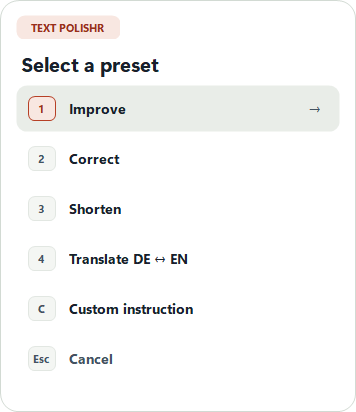
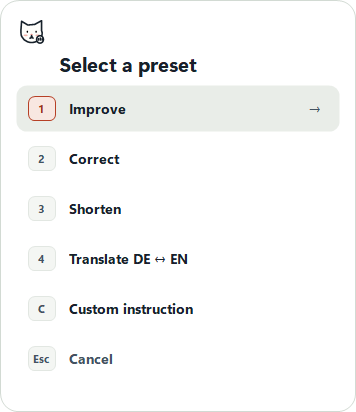
Add shortcut capture and cat branding

Changed region(s): [[0.0309, 0.0291, 0.5562, 0.2039]]

diff --git a/src/TextPolishr/UI/SettingsWindow.xaml b/src/TextPolishr/UI/SettingsWindow.xaml
@@ -22,6 +22,18 @@
         <SolidColorBrush x:Key="Quiet" Color="#647482" />
         <SolidColorBrush x:Key="Signal" Color="#B64026" />
         <SolidColorBrush x:Key="SignalSoft" Color="#F8E7E1" />
+        <DataTemplate x:Key="CatMark">
+            <Viewbox Stretch="Uniform">
+                <Canvas Width="48" Height="48">
+                    <Path Data="M7,23 L8,9 L18,15 L29,14 L40,8 L40,24 C40,35 33,42 24,42 C14,42 7,35 7,23 Z" Fill="#FEFEFB" Stroke="#17212B" StrokeThickness="2.6" StrokeLineJoin="Round" />
+                    <Ellipse Canvas.Left="16" Canvas.Top="24" Width="3" Height="4" Fill="#17212B" /><Ellipse Canvas.Left="30" Canvas.Top="24" Width="3" Height="4" Fill="#17212B" />
+                    <Ellipse Canvas.Left="22" Canvas.Top="29" Width="4" Height="2.5" Fill="#EF9B93" />
+                    <Ellipse Canvas.Left="11" Canvas.Top="30" Width="7" Height="3" Fill="#F2B5AD" Opacity=".7" /><Ellipse Canvas.Left="30" Canvas.Top="30" Width="7" Height="3" Fill="#F2B5AD" Opacity=".7" />
+                    <Ellipse Canvas.Left="32" Canvas.Top="32" Width="11" Height="12" Fill="#FEFEFB" Stroke="#17212B" StrokeThickness="2.6" />
+                    <Line X1="35" Y1="37" X2="35" Y2="39" Stroke="#17212B" StrokeThickness="2" StrokeStartLineCap="Round" /><Line X1="38" Y1="36" X2="38" Y2="39" Stroke="#17212B" StrokeThickness="2" StrokeStartLineCap="Round" /><Line X1="41" Y1="37" X2="41" Y2="39" Stroke="#17212B" StrokeThickness="2" StrokeStartLineCap="Round" />
+                </Canvas>
+            </Viewbox>
+        </DataTemplate>
 
         <Style TargetType="TextBlock">
             <Setter Property="Foreground" Value="{StaticResource Ink}" />
@@ -339,9 +351,7 @@
                     <ColumnDefinition Width="Auto" />
                 </Grid.ColumnDefinitions>
                 <StackPanel Orientation="Horizontal" VerticalAlignment="Center" Margin="25,0,0,0">
-                    <Border Width="38" Height="38" CornerRadius="9" Background="{StaticResource Signal}">
-                        <TextBlock Text="TP" FontWeight="Bold" FontSize="13" HorizontalAlignment="Center" VerticalAlignment="Center" />
-                    </Border>
+                    <ContentControl Width="38" Height="38" ContentTemplate="{StaticResource CatMark}" />
                     <StackPanel Margin="12,0,0,0" VerticalAlignment="Center">
                         <TextBlock Text="Text Polishr" FontFamily="Segoe UI Variable Display" FontWeight="SemiBold" FontSize="17" />
                         <TextBlock Text="TEXT TRANSFORMATION" Style="{StaticResource Eyebrow}" FontSize="10" Foreground="{StaticResource Quiet}" />
@@ -387,7 +397,11 @@
                                 <Grid.ColumnDefinitions><ColumnDefinition Width="200"/><ColumnDefinition Width="*"/></Grid.ColumnDefinitions>
                                 <Grid.RowDefinitions><RowDefinition Height="Auto"/><RowDefinition Height="20"/><RowDefinition Height="Auto"/><RowDefinition Height="20"/><RowDefinition Height="Auto"/></Grid.RowDefinitions>
                                 <TextBlock Text="Preset menu shortcut" Style="{StaticResource FieldLabel}" VerticalAlignment="Center" />
-                                <TextBox x:Name="MenuShortcutBox" Grid.Column="1" />
+                                <StackPanel Grid.Column="1">
+                                    <TextBox x:Name="MenuShortcutBox" Style="{StaticResource PresetInput}" PreviewKeyDown="ShortcutBox_PreviewKeyDown" GotKeyboardFocus="ShortcutBox_GotKeyboardFocus"
+                                             ToolTip="Click, then press the complete key combination. Backspace clears it." />
+                                    <TextBlock Text="Click the field, then press the complete key combination. Backspace clears it." Foreground="{StaticResource Quiet}" FontSize="11" Margin="2,6,0,0" />
+                                </StackPanel>
                                 <StackPanel Grid.Row="2" VerticalAlignment="Center"><TextBlock Text="Maximum characters" Style="{StaticResource FieldLabel}"/><TextBlock Text="Default: 10,000" Foreground="{StaticResource Quiet}" FontSize="11"/></StackPanel>
                                 <TextBox x:Name="CharacterLimitBox" Grid.Row="2" Grid.Column="1" />
                                 <StackPanel Grid.Row="4" VerticalAlignment="Center"><TextBlock Text="Request timeout" Style="{StaticResource FieldLabel}"/><TextBlock Text="Seconds before aborting" Foreground="{StaticResource Quiet}" FontSize="11"/></StackPanel>
@@ -426,7 +440,7 @@
                         <StackPanel>
                             <TextBlock Text="PRESETS" Style="{StaticResource Eyebrow}" />
                             <TextBlock Text="Preset configuration" Style="{StaticResource PageTitle}" Margin="0,7,0,4" />
-                            <TextBlock Text="Each preset has a prompt, shortcut, provider, and optional model override." Foreground="{StaticResource Muted}" />
+                            <TextBlock Text="The prompt controls the result. Shortcut and model options are optional." Foreground="{StaticResource Muted}" />
                         </StackPanel>
                         <Grid Grid.Row="2">
                             <Grid.ColumnDefinitions><ColumnDefinition Width="240"/><ColumnDefinition Width="18"/><ColumnDefinition Width="*"/></Grid.ColumnDefinitions>
@@ -455,11 +469,17 @@
                                         <Expander x:Name="PresetAdvancedOptions" Header="Advanced options" Margin="0,18,0,0">
                                             <StackPanel Margin="0,14,0,0">
                                                 <Grid><Grid.ColumnDefinitions><ColumnDefinition/><ColumnDefinition Width="16"/><ColumnDefinition/></Grid.ColumnDefinitions>
-                                                    <StackPanel><TextBlock Text="Provider override" Style="{StaticResource FieldLabel}"/><ComboBox x:Name="PresetProviderCombo" Style="{StaticResource PresetCombo}" /></StackPanel>
-                                                    <StackPanel Grid.Column="2"><TextBlock Text="Model override" Style="{StaticResource FieldLabel}"/><TextBox x:Name="PresetModelBox" Style="{StaticResource PresetInput}" /></StackPanel>
+                                                    <StackPanel><TextBlock Text="Provider override (optional)" Style="{StaticResource FieldLabel}"/><ComboBox x:Name="PresetProviderCombo" Style="{StaticResource PresetCombo}" /></StackPanel>
+                                                    <StackPanel Grid.Column="2">
+                                                        <TextBlock Text="Model override (optional)" Style="{StaticResource FieldLabel}"/>
+                                                        <TextBox x:Name="PresetModelBox" Style="{StaticResource PresetInput}" />
+                                                        <TextBlock Text="Leave blank to use the global model. Enter an exact model ID only for a different model." Foreground="{StaticResource Quiet}" FontSize="11" TextWrapping="Wrap" Margin="2,6,0,0" />
+                                                    </StackPanel>
                                                 </Grid>
                                                 <TextBlock Text="Direct shortcut" Style="{StaticResource FieldLabel}" Margin="0,17,0,7" />
-                                                <TextBox x:Name="PresetShortcutBox" Style="{StaticResource PresetInput}" />
+                                                <TextBox x:Name="PresetShortcutBox" Style="{StaticResource PresetInput}" PreviewKeyDown="ShortcutBox_PreviewKeyDown" GotKeyboardFocus="ShortcutBox_GotKeyboardFocus"
+                                                         ToolTip="Click, then press the complete key combination. Backspace clears it." />
+                                                <TextBlock Text="Click the field, then press the complete key combination. Backspace clears it." Foreground="{StaticResource Quiet}" FontSize="11" Margin="2,6,0,0" />
                                                 <CheckBox x:Name="PresetShowInMenuCheck" Content="Show in selection menu" Margin="0,18,0,0" />
                                             </StackPanel>
                                         </Expander>

diff --git a/src/TextPolishr/UI/HistoryWindow.xaml b/src/TextPolishr/UI/HistoryWindow.xaml
@@ -14,6 +14,7 @@
         <SolidColorBrush x:Key="Line" Color="#D2DAD3"/><SolidColorBrush x:Key="Ink" Color="#17212B"/>
         <SolidColorBrush x:Key="Muted" Color="#435260"/><SolidColorBrush x:Key="Quiet" Color="#647482"/>
         <SolidColorBrush x:Key="Signal" Color="#B64026"/><SolidColorBrush x:Key="SignalSoft" Color="#F8E7E1"/>
+        <DataTemplate x:Key="CatMark"><Viewbox Stretch="Uniform"><Canvas Width="48" Height="48"><Path Data="M7,23 L8,9 L18,15 L29,14 L40,8 L40,24 C40,35 33,42 24,42 C14,42 7,35 7,23 Z" Fill="#FEFEFB" Stroke="#17212B" StrokeThickness="2.6" StrokeLineJoin="Round"/><Ellipse Canvas.Left="16" Canvas.Top="24" Width="3" Height="4" Fill="#17212B"/><Ellipse Canvas.Left="30" Canvas.Top="24" Width="3" Height="4" Fill="#17212B"/><Ellipse Canvas.Left="22" Canvas.Top="29" Width="4" Height="2.5" Fill="#EF9B93"/><Ellipse Canvas.Left="11" Canvas.Top="30" Width="7" Height="3" Fill="#F2B5AD" Opacity=".7"/><Ellipse Canvas.Left="30" Canvas.Top="30" Width="7" Height="3" Fill="#F2B5AD" Opacity=".7"/><Ellipse Canvas.Left="32" Canvas.Top="32" Width="11" Height="12" Fill="#FEFEFB" Stroke="#17212B" StrokeThickness="2.6"/></Canvas></Viewbox></DataTemplate>
         <Style x:Key="ButtonBase" TargetType="Button">
             <Setter Property="Foreground" Value="{StaticResource Ink}"/><Setter Property="Background" Value="{StaticResource Raised}"/>
             <Setter Property="BorderBrush" Value="{StaticResource Line}"/><Setter Property="BorderThickness" Value="1"/>
@@ -41,7 +42,7 @@
             <Grid Grid.Row="0" MouseLeftButtonDown="Header_MouseLeftButtonDown">
                 <Grid.ColumnDefinitions><ColumnDefinition/><ColumnDefinition Width="Auto"/></Grid.ColumnDefinitions>
                 <StackPanel Orientation="Horizontal" VerticalAlignment="Center" Margin="25,0,0,0">
-                    <Border Width="38" Height="38" CornerRadius="9" Background="{StaticResource Signal}"><TextBlock Text="TP" FontWeight="Bold" FontSize="13" HorizontalAlignment="Center" VerticalAlignment="Center"/></Border>
+                    <ContentControl Width="38" Height="38" ContentTemplate="{StaticResource CatMark}"/>
                     <StackPanel Margin="12,0,0,0" VerticalAlignment="Center"><TextBlock Text="Text Polishr" FontWeight="SemiBold" FontSize="17"/><TextBlock Text="RECENT TRANSFORMATIONS" Foreground="{StaticResource Quiet}" FontWeight="Bold" FontSize="10"/></StackPanel>
                 </StackPanel>
                 <StackPanel Grid.Column="1" Orientation="Horizontal" shell:WindowChrome.IsHitTestVisibleInChrome="True">

diff --git a/src/TextPolishr/UI/ModernControls.cs b/src/TextPolishr/UI/ModernControls.cs
@@ -237,6 +237,62 @@ internal sealed class PolishrColorTable : ProfessionalColorTable
     public override Color SeparatorLight => Theme.BorderSoft;
 }
 
+internal sealed class CatLogo : Control
+{
+    public CatLogo()
+    {
+        SetStyle(ControlStyles.UserPaint | ControlStyles.AllPaintingInWmPaint |
+                 ControlStyles.OptimizedDoubleBuffer | ControlStyles.SupportsTransparentBackColor, true);
+        BackColor = Color.Transparent;
+        Size = new Size(38, 38);
+    }
+
+    protected override void OnPaint(PaintEventArgs eventArgs)
+    {
+        base.OnPaint(eventArgs);
+        Draw(eventArgs.Graphics, ClientRectangle);
+    }
+
+    internal static void Draw(Graphics graphics, Rectangle bounds)
+    {
+        graphics.SmoothingMode = SmoothingMode.AntiAlias;
+        var scale = Math.Min(bounds.Width, bounds.Height) / 48F;
+        var x = bounds.X + (bounds.Width - 48F * scale) / 2F;
+        var y = bounds.Y + (bounds.Height - 48F * scale) / 2F;
+        var state = graphics.Save();
+        graphics.TranslateTransform(x, y);
+        graphics.ScaleTransform(scale, scale);
+        using var fill = new SolidBrush(Color.FromArgb(254, 254, 251));
+        using var ink = new Pen(Theme.Text, 2.6F) { LineJoin = LineJoin.Round, StartCap = LineCap.Round, EndCap = LineCap.Round };
+        using var blush = new SolidBrush(Color.FromArgb(242, 181, 173));
+        using var rose = new SolidBrush(Color.FromArgb(239, 155, 147));
+
+        using var head = new GraphicsPath();
+        head.AddLines([new PointF(7, 23), new PointF(8, 9), new PointF(18, 15), new PointF(29, 14), new PointF(40, 8), new PointF(40, 24)]);
+        head.AddArc(7, 12, 34, 31, 0, 180);
+        head.CloseFigure();
+        graphics.FillPath(fill, head);
+        graphics.DrawPath(ink, head);
+        graphics.FillEllipse(blush, 11, 30, 7, 3);
+        graphics.FillEllipse(blush, 30, 30, 7, 3);
+        graphics.FillEllipse(Brushes.White, 15, 23, 4, 5);
+        graphics.FillEllipse(Brushes.White, 29, 23, 4, 5);
+        graphics.FillEllipse(Brushes.Black, 16, 24, 2.5F, 3.5F);
+        graphics.FillEllipse(Brushes.Black, 30, 24, 2.5F, 3.5F);
+        graphics.FillEllipse(rose, 22, 29, 4, 2.5F);
+        graphics.DrawLine(ink, 24, 32, 24, 34);
+        graphics.DrawArc(ink, 19, 31, 5, 5, 0, 90);
+        graphics.DrawArc(ink, 24, 31, 5, 5, 90, 90);
+
+        graphics.FillEllipse(fill, 32, 32, 11, 12);
+        graphics.DrawEllipse(ink, 32, 32, 11, 12);
+        graphics.DrawLine(ink, 35, 37, 35, 39);
+        graphics.DrawLine(ink, 38, 36, 38, 39);
+        graphics.DrawLine(ink, 41, 37, 41, 39);
+        graphics.Restore(state);
+    }
+}
+
 internal static class AppIcon
 {
     internal static Icon Create()
@@ -244,12 +300,8 @@ internal static class AppIcon
         using var bitmap = new Bitmap(32, 32);
         using var graphics = Graphics.FromImage(bitmap);
         graphics.SmoothingMode = SmoothingMode.AntiAlias;
-        using var background = new SolidBrush(Theme.Accent);
-        graphics.FillPath(background, Geometry.RoundRect(new Rectangle(2, 2, 28, 28), 8));
-        using var mark = new Pen(Color.White, 2.6F) { StartCap = LineCap.Round, EndCap = LineCap.Round };
-        graphics.DrawLine(mark, 10, 10, 22, 10);
-        graphics.DrawLine(mark, 16, 10, 16, 22);
-        graphics.DrawLine(mark, 11, 22, 21, 22);
+        graphics.Clear(Color.Transparent);
+        CatLogo.Draw(graphics, new Rectangle(1, 1, 30, 30));
         var handle = bitmap.GetHicon();
         try
         {

diff --git a/src/TextPolishr/UI/SettingsWindow.xaml.cs b/src/TextPolishr/UI/SettingsWindow.xaml.cs
@@ -246,6 +246,65 @@ public partial class SettingsWindow : Window
 
     private void Save_Click(object sender, RoutedEventArgs e) => Persist(true);
 
+    private void ShortcutBox_GotKeyboardFocus(object sender, KeyboardFocusChangedEventArgs e)
+    {
+        if (sender is System.Windows.Controls.TextBox box)
+        {
+            box.SelectAll();
+        }
+    }
+
+    private void ShortcutBox_PreviewKeyDown(object sender, System.Windows.Input.KeyEventArgs e)
+    {
+        if (sender is not System.Windows.Controls.TextBox box)
+        {
+            return;
+        }
+
+        var key = e.Key == Key.System ? e.SystemKey : e.Key;
+        if (key is Key.Back or Key.Delete or Key.Escape)
+        {
+            box.Clear();
+            e.Handled = true;
+            return;
+        }
+
+        var shortcut = FormatShortcut(key, Keyboard.Modifiers);
+        if (shortcut is not null)
+        {
+            box.Text = shortcut;
+            box.CaretIndex = shortcut.Length;
+        }
+        e.Handled = true;
+    }
+
+    internal static string? FormatShortcut(Key key, ModifierKeys modifiers)
+    {
+        if (key is Key.LeftCtrl or Key.RightCtrl or Key.LeftAlt or Key.RightAlt or
+            Key.LeftShift or Key.RightShift or Key.LWin or Key.RWin or Key.None)
+        {
+            return null;
+        }
+        if (modifiers == ModifierKeys.None)
+        {
+            return null;
+        }
+
+        var parts = new List<string>(4);
+        if (modifiers.HasFlag(ModifierKeys.Control)) parts.Add("Ctrl");
+        if (modifiers.HasFlag(ModifierKeys.Alt)) parts.Add("Alt");
+        if (modifiers.HasFlag(ModifierKeys.Shift)) parts.Add("Shift");
+        if (modifiers.HasFlag(ModifierKeys.Windows)) parts.Add("Win");
+        parts.Add(key switch
+        {
+            Key.Return => "Enter",
+            Key.Space => "Space",
+            Key.Escape => "Esc",
+            _ => key.ToString()
+        });
+        return string.Join('+', parts);
+    }
+
     private void Persist(bool showConfirmation)
     {
         CommitPreset();

diff --git a/tests/TextPolishr.Tests/Program.cs b/tests/TextPolishr.Tests/Program.cs
@@ -1,7 +1,9 @@
 using System.Net;
 using System.Runtime.InteropServices;
 using System.Text;
+using System.Windows.Input;
 using TextPolishr.Core;
+using TextPolishr.UI;
 using TextPolishr.Windows;
 
 namespace TextPolishr.Tests;
@@ -19,6 +21,7 @@ internal static class Program
             ("Settings migration", TestSettingsMigration),
             ("Three-entry history", TestHistoryCapacity),
             ("Shortcut parser", TestShortcutParser),
+            ("Shortcut capture formatting", TestShortcutCaptureFormatting),
             ("Native input layout", TestNativeInputLayout),
             ("Plain LLM response", TestPlainLlmResponse),
             ("Structured LLM response", TestStructuredLlmResponse),
@@ -89,6 +92,15 @@ internal static class Program
         True(shortcut.Modifiers != 0);
         Equal((uint)Keys.Space, shortcut.VirtualKey);
         True(!HotkeyManager.Shortcut.TryParse("Ctrl+NothingHere", out _));
+    }
+
+    private static void TestShortcutCaptureFormatting()
+    {
+        Equal("Ctrl+Alt+G", SettingsWindow.FormatShortcut(Key.G, ModifierKeys.Control | ModifierKeys.Alt));
+        Equal("Ctrl+Shift+Space", SettingsWindow.FormatShortcut(Key.Space, ModifierKeys.Control | ModifierKeys.Shift));
+        Equal("Win+Enter", SettingsWindow.FormatShortcut(Key.Return, ModifierKeys.Windows));
+        True(SettingsWindow.FormatShortcut(Key.LeftCtrl, ModifierKeys.Control) is null);
+        True(SettingsWindow.FormatShortcut(Key.G, ModifierKeys.None) is null);
     }
 
     private static void TestNativeInputLayout()

diff --git a/src/TextPolishr/UI/ActionMenuForm.cs b/src/TextPolishr/UI/ActionMenuForm.cs
@@ -19,18 +19,17 @@ internal sealed class ActionMenuForm : Form
         var visibleActions = actions.Where(action => action.ShowInMenu).ToArray();
         ClientSize = new Size(356, 112 + (visibleActions.Length + 2) * 50);
 
-        var brand = new PillLabel
+        var brand = new CatLogo
         {
-            Text = "TEXT POLISHR",
             Location = new Point(16, 15),
-            Size = new Size(104, 24)
+            Size = new Size(30, 30)
         };
         var title = new Label
         {
             Text = "Select a preset",
             ForeColor = Theme.Text,
             Font = Theme.DisplayFont(15F, FontStyle.Bold),
-            Location = new Point(16, 50),
+            Location = new Point(54, 50),
             AutoSize = true
         };
         Controls.AddRange([brand, title]);

diff --git a/src/TextPolishr/UI/CustomInstructionForm.cs b/src/TextPolishr/UI/CustomInstructionForm.cs
@@ -21,15 +21,10 @@ internal sealed class CustomInstructionForm : Form
         Padding = new Padding(1);
         TopMost = true;
 
-        var mark = new PillLabel
+        var mark = new CatLogo
         {
-            Text = "TP",
-            Location = new Point(24, 20),
-            Size = new Size(36, 36),
-            Radius = 9,
-            PillColor = Theme.Accent,
-            ForeColor = Color.White,
-            Font = Theme.DisplayFont(9.5F, FontStyle.Bold)
+            Location = new Point(24, 17),
+            Size = new Size(38, 38)
         };
         var eyebrow = new Label
         {

diff --git a/tests/TextPolishr.Tests/SettingsUiSmoke.cs b/tests/TextPolishr.Tests/SettingsUiSmoke.cs
@@ -47,6 +47,7 @@ internal static class SettingsUiSmoke
             var modelOverride = Find<WpfTextBox>(window, "PresetModelBox");
             modelOverride.Text = "preset-test-model";
             Assert(modelOverride.Text == "preset-test-model", "Preset model override was not rendered.");
+            advanced.IsExpanded = false;
 
             var modelNav = Find<WpfButton>(window, "ModelNav");
             modelNav.RaiseEvent(new RoutedEventArgs(WpfButton.ClickEvent));

diff --git a/CHANGELOG.md b/CHANGELOG.md
@@ -2,6 +2,17 @@
 
 All notable changes to Text Polishr are documented here.
 
+## [0.1.3] - 2026-09-08
+
+### Added
+
+- Press-to-record shortcut fields for the preset menu and individual presets.
+- White cat mark used consistently across the application and documentation.
+
+### Changed
+
+- Clarified that model overrides are optional and use the global model when blank.
+
 ## [0.1.2] - 2026-09-08
 
 ### Fixed
